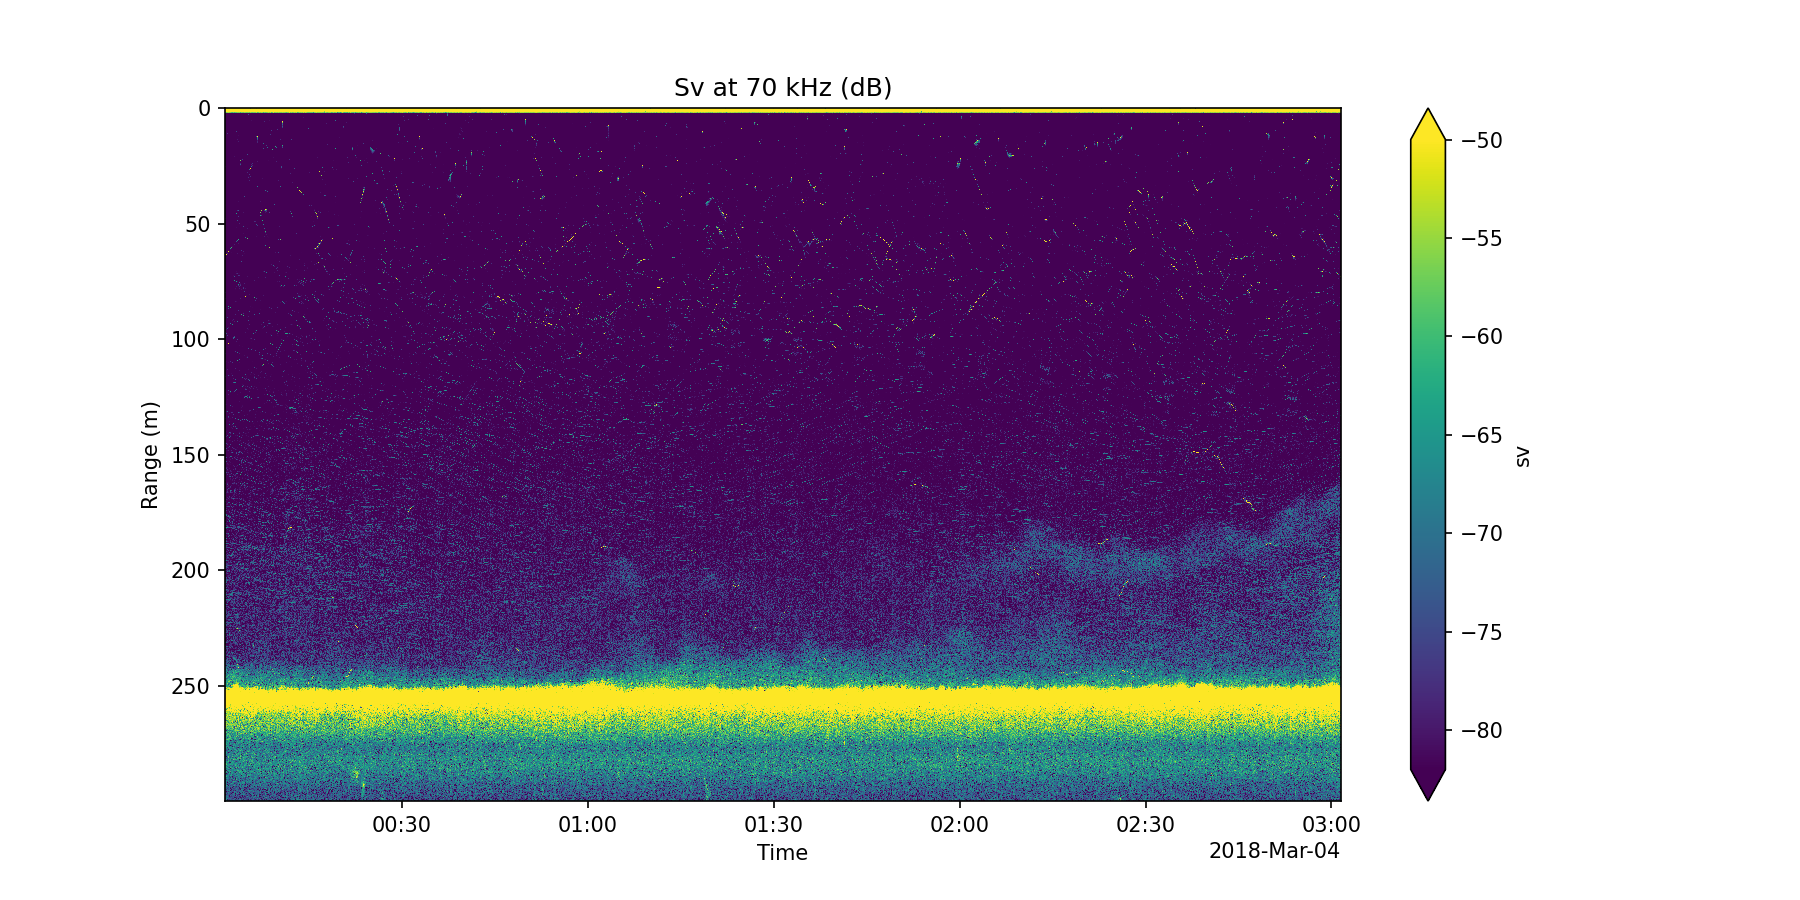
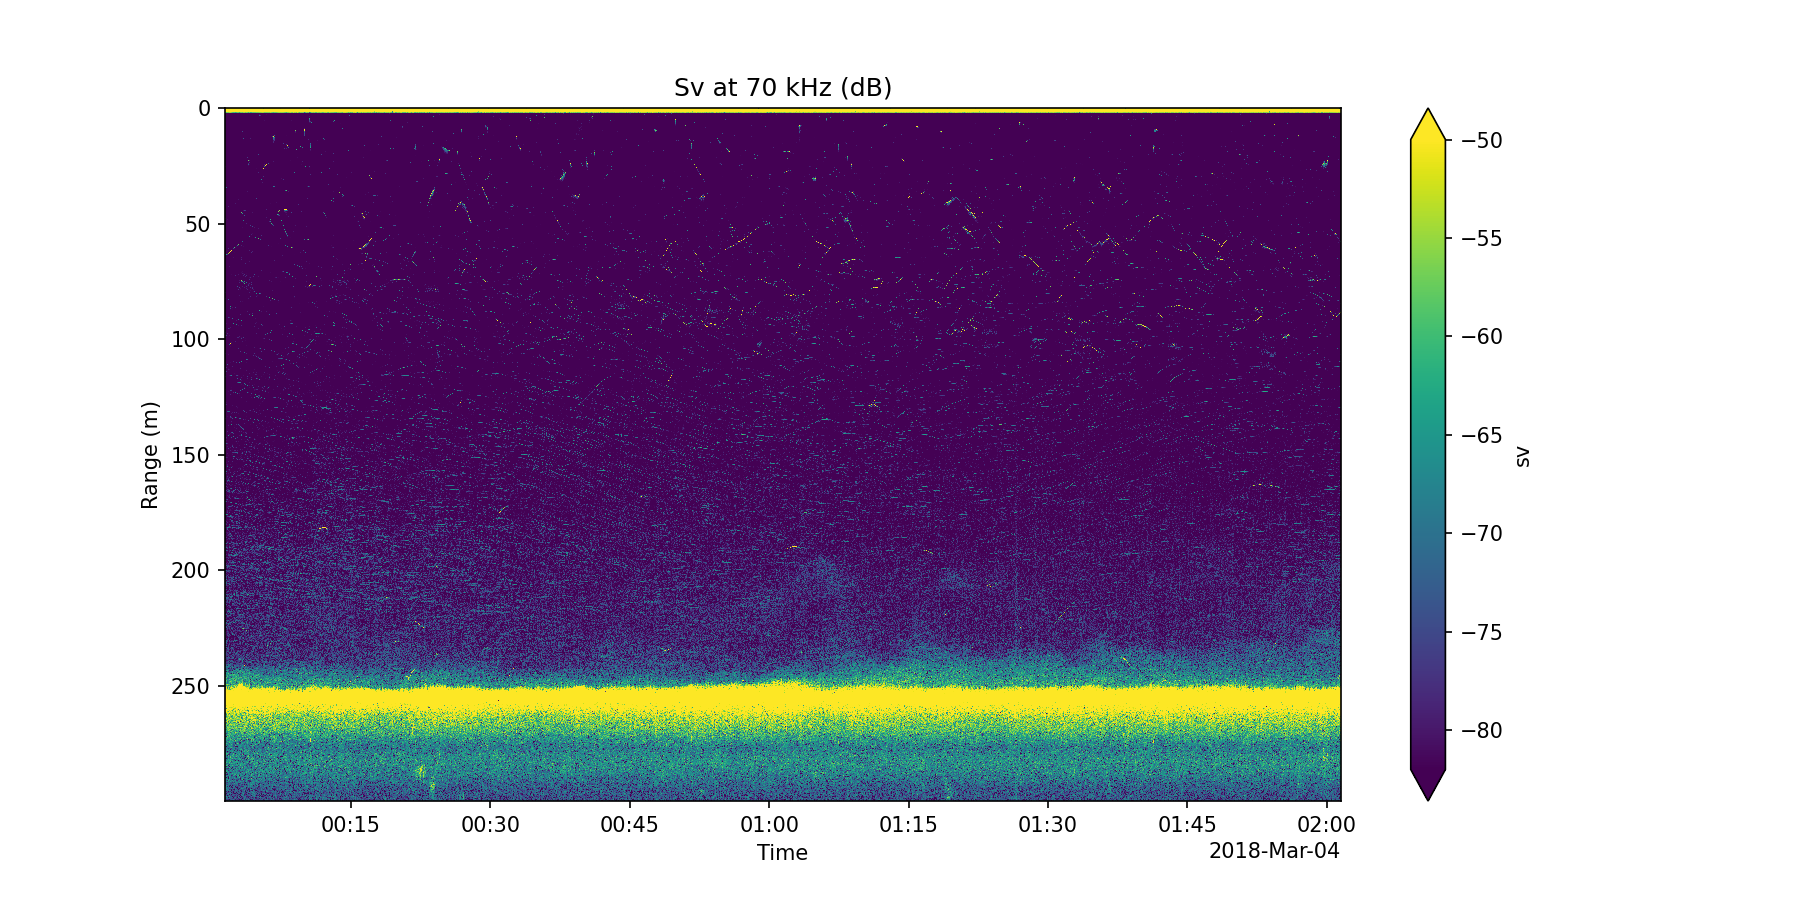
Read and plots data

diff --git a/dBdiff.py b/dBdiff.py
@@ -35,7 +35,7 @@ freq = 70000.
 
 # Time selection
 start_time = "2018-03-04 00:01:25" # Select subset of data
-end_time   = "2018-03-04 03:01:30" # Select subset of data
+end_time   = "2018-03-04 02:01:30" # Select subset of data
 
 
 # Example dataset with herring schools, two (crimac-scratch/test_data/dBDiff)
